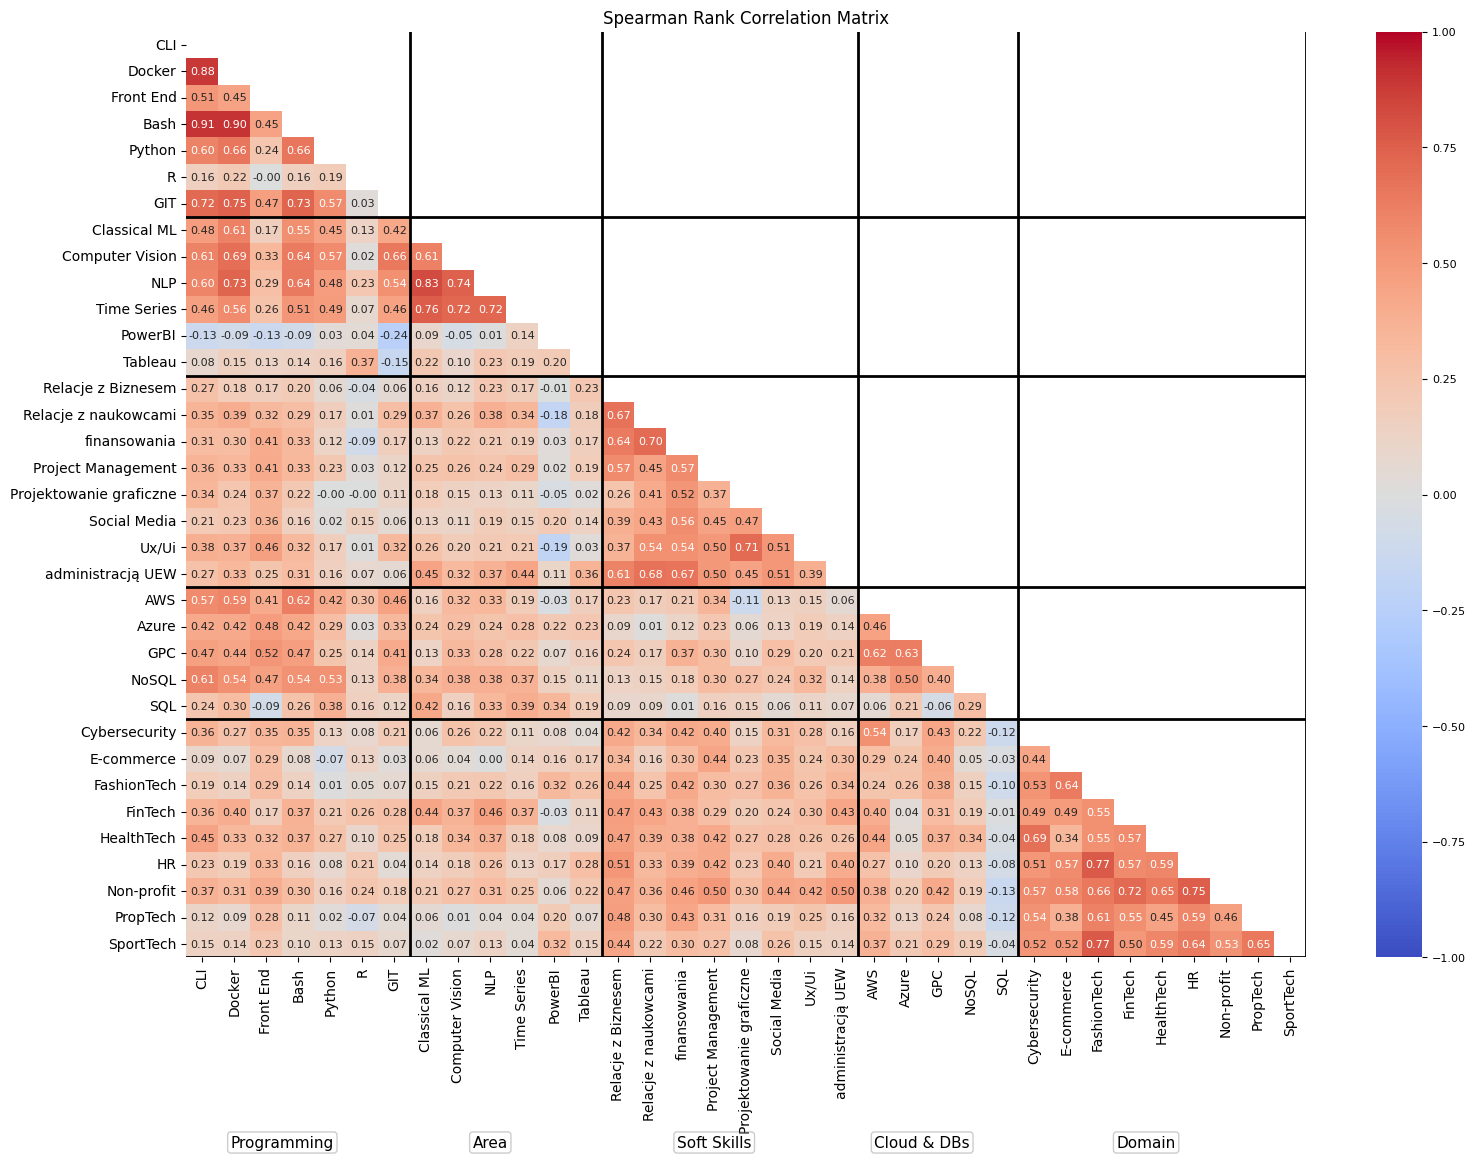
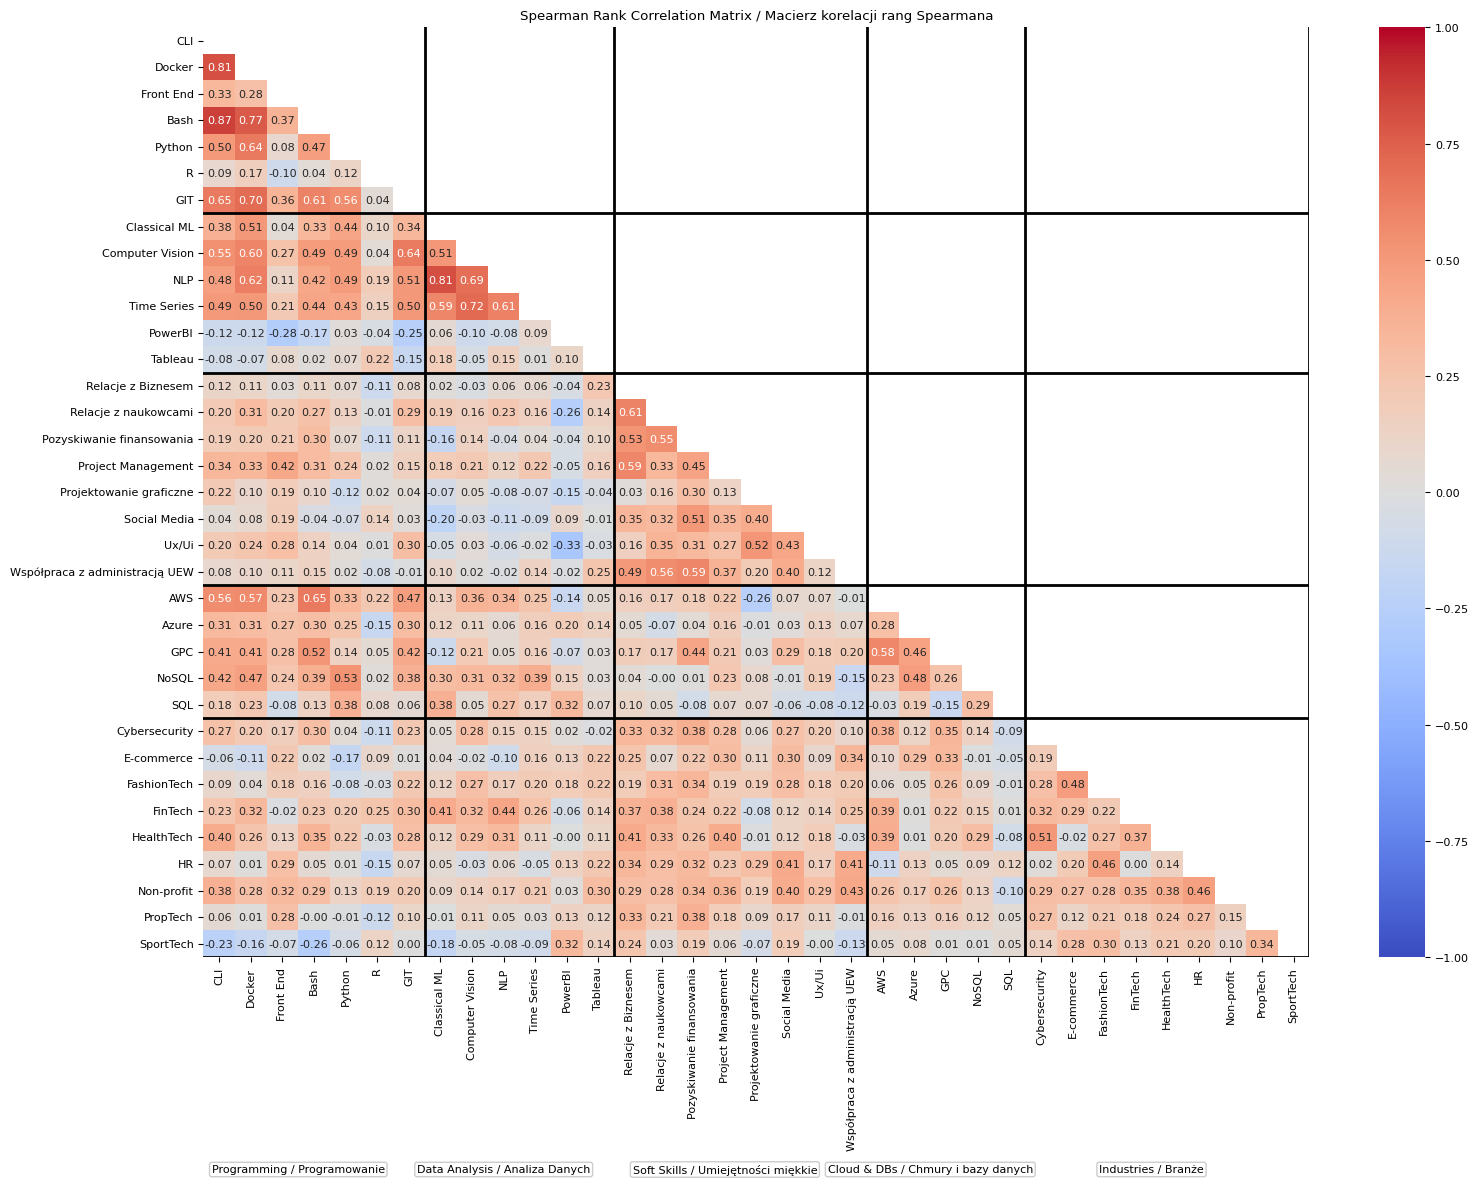
Updated titles and labels with English and deleted old matrix chart

diff --git a/notebooks/03_exploratory_analysis.py b/notebooks/03_exploratory_analysis.py
@@ -34,15 +34,15 @@ def run():
 
     #Plotting the stacked bar chart
     blue_palette = sns.color_palette("pastel", 5)
-    ax = ratings_distribution.plot(kind='barh', stacked=True, title='Distribution of Ratings for Each Skill', 
+    ax = ratings_distribution.plot(kind='barh', stacked=True, title='Distribution of Ratings for Each Skill / Rozkład ocen dla umiejętności', 
                                 color=blue_palette, figsize=(12, 8))
     plt.xticks(rotation=45, ha='right')
     plt.tight_layout()
-    plt.xlabel('Skills')
-    plt.ylabel('Count')
-    plt.legend(title='Rating', loc='upper left', bbox_to_anchor=(1, 1))
+    plt.xlabel('Count / Liczba ')
+    plt.ylabel('Skills / Umiejętności')
+    plt.legend(title='Rating / Ocena', loc='upper left', bbox_to_anchor=(1, 1))
 
-    legend_labels = ['Mentor', 'Kompetenty', 'Zainteresowany', 'Niezainteresowany', 'Nieświadomy']
+    legend_labels = ['Mentor', 'Competent / Kompetenty', 'Interested / Zainteresowany', 'Unaware / Nieświadomy', 'Uninterested / Niezainteresowany']
     legend_patches = [plt.Rectangle((0,0),1,1,fc=color) for color in blue_palette[::-1]]
     plt.legend(legend_patches, legend_labels, title='Rating', loc='upper left', bbox_to_anchor=(1, 1))
 
@@ -51,13 +51,15 @@ def run():
     plt.savefig(save_path, bbox_inches='tight')
     plt.show()
 
+
+
     #Creating groups
     groups = {
-        'Programming': ['CLI', 'Docker', 'Front End', 'Bash', 'Python', 'R', 'GIT'],
-        'Area': ['Classical ML', 'Computer Vision', 'NLP', 'Time Series', 'PowerBI', 'Tableau'],
-        'Soft Skills': ['Relacje z Biznesem', 'Relacje z naukowcami', 'finansowania', 'Project Management', 'Projektowanie graficzne', 'Social Media', 'Ux/Ui', 'administracją UEW'],
-        'Cloud & DBs': ['AWS', 'Azure', 'GPC', 'NoSQL', 'SQL'],
-        'Domain': ['Cybersecurity', 'E-commerce', 'FashionTech', 'FinTech', 'HealthTech', 'HR', 'Non-profit', 'PropTech', 'SportTech']
+        'Programming / Programowanie': ['CLI', 'Docker', 'Front End', 'Bash', 'Python', 'R', 'GIT'],
+        'Data Analysis / Analiza Danych': ['Classical ML', 'Computer Vision', 'NLP', 'Time Series', 'PowerBI', 'Tableau'],
+        'Soft Skills / Umiejętności miękkie': ['Relacje z Biznesem', 'Relacje z naukowcami', 'Pozyskiwanie finansowania', 'Project Management', 'Projektowanie graficzne', 'Social Media', 'Ux/Ui', 'Współpraca z administracją UEW'],
+        'Cloud & DBs / Chmury i bazy danych': ['AWS', 'Azure', 'GPC', 'NoSQL', 'SQL'],
+        'Industries / Branże': ['Cybersecurity', 'E-commerce', 'FashionTech', 'FinTech', 'HealthTech', 'HR', 'Non-profit', 'PropTech', 'SportTech']
     }
 
     #Extracting the list of columns based on groups
@@ -70,7 +72,7 @@ def run():
     correlation = correlation_df.corr(method='spearman')
 
     plt.figure(figsize=(16, 12), dpi=100)
-    plt.title('Spearman Rank Correlation Matrix')
+    plt.title('Spearman Rank Correlation Matrix / Macierz korelacji rang Spearmana')
     plt.rcParams.update({'font.size': 8})
     mask = np.triu(np.ones_like(correlation, dtype=bool))
 
@@ -90,7 +92,7 @@ def run():
         group_start = ordered_columns.index(columns[0])
         group_end = ordered_columns.index(columns[-1])
         group_center = (group_start + group_end) / 2
-        plt.text(group_center, len(ordered_columns) + 7, group, ha='center', va='center', color='black', fontsize=11,
+        plt.text(group_center, len(ordered_columns) + 8, group, ha='center', va='center', color='black', fontsize=8,
                 bbox=dict(facecolor='white', alpha=0.2, boxstyle='round,pad=0.2'))
 
     plt.tight_layout()
@@ -100,22 +102,5 @@ def run():
     figures_dir = os.path.join(repo_root, 'figures')
 
     save_path = os.path.join(figures_dir, '03_spearman_rank_correlation_matrix_grouped.png')
-    plt.savefig(save_path, bbox_inches='tight')
-    plt.show()
-
-
-
-    #Creating spearman rank correlation matrix
-    correlation_df = df[columns]
-    correlation = correlation_df.corr(method='spearman')
-    plt.figure(figsize = (16,12), dpi= 100)
-    plt.title('Spearman rank correlation matrix')
-    plt.rcParams.update({'font.size': 8})
-    mask = np.triu(np.ones_like(correlation, dtype=bool))
-    sns.heatmap(correlation, cmap= 'coolwarm', vmin=-1, vmax=1, center=0, annot=True, mask=mask, fmt='.2f')
-    plt.subplots_adjust(bottom=0.2)
-
-    #Saving the chart
-    save_path = os.path.join(figures_dir, '03_spearman_rank_correlation_matrix.png')
     plt.savefig(save_path, bbox_inches='tight')
     plt.show()
